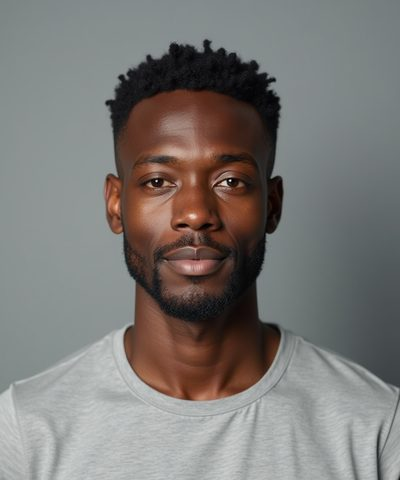
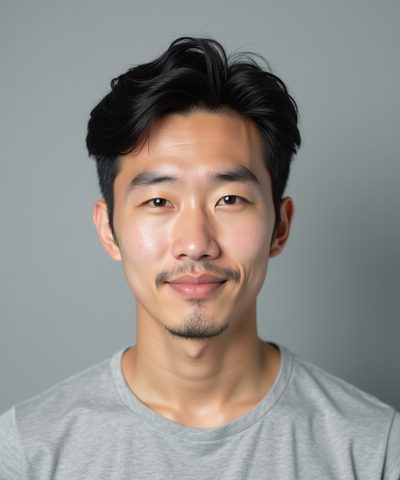
第一印象: 結果を横棒 2 本（ずれ 1 以内の数・r）で判定、写真の顔を全員東アジア系に（顔の組 2）

diff --git a/04-first-impression/index.html b/04-first-impression/index.html
@@ -65,6 +65,7 @@ ol.steps{margin:0;padding-left:1.3em;display:flex;flex-direction:column;gap:4px}
 .scale button{aspect-ratio:1;max-width:100%;border:2px solid var(--line);background:var(--paper);color:var(--ink);border-radius:6px;font-family:var(--f-mono);font-size:18px;cursor:pointer;padding:0}
 .scale button:hover{border-color:var(--accent)}
 .ends{display:flex;justify-content:space-between;font-size:12px;color:var(--sub)}
+.verdict{font-size:18px;margin:2px 0}
 .big{font-family:var(--f-display);font-size:56px;line-height:1;color:var(--accent)}
 .stats{display:grid;grid-template-columns:repeat(auto-fit,minmax(150px,1fr));gap:10px}
 .stat{border-top:2px solid var(--ink);padding-top:6px;display:flex;flex-direction:column;gap:2px}
@@ -155,6 +156,8 @@ function faceSVG(id){
   </svg>`;
 }
 /* 顔は 2 種類：描いた顔（svg）と、AI で作った架空の人の写真（photo。faces/p01.jpg〜p12.jpg） */
+/* 写真の顔の組。2 = 2026/10/25 に 12 人を全員 東アジア系にそろえた組（1 は前の組）。集計は今の組だけ */
+const PHOTO_FS = 2;
 const SETS = { svg: { name: "描いた顔", short: "絵" }, photo: { name: "写真の顔", short: "写真" } };
 const photoSrc = (id) => `faces/p${String(id - 100).padStart(2, "0")}.jpg`;
 function faceHTML(id, set){
@@ -326,6 +329,47 @@ function matchChart(x, y, ids, set){
   return s + `</svg>`;
 }
 
+/* 判定の線（12 人のとき）：ずれ 1 以内が 10 人以上＝かなり一緒、7〜9 人＝だいたい同じ、6 人以下＝けっこう変わった */
+const VERDICT = { hi: "0.1 秒でも 1 秒でも、ほとんど同じ印象でした。", mid: "だいたい同じ。でも、何人かは印象が動きました。", lo: "0.1 秒と 1 秒で、印象が動いた顔が多めです。" };
+const VERDICT_SHORT = { hi: "かなり一緒", mid: "まあまあ一緒", lo: "けっこう違う" };
+const nearVerdict = (near) => near >= 10 ? "hi" : near >= 7 ? "mid" : "lo";
+/* r の区切り：0.7 以上＝かなり一緒、0.4〜0.7＝まあまあ一緒、0.4 未満＝ぜんぜん違う（負の r も「ぜんぜん違う」）。根拠は README */
+const R_SHORT = { hi: "かなり一緒", mid: "まあまあ一緒", lo: "ぜんぜん違う" };
+const rVerdict = (r) => r === null || !Number.isFinite(r) ? null : r >= 0.7 ? "hi" : r >= 0.4 ? "mid" : "lo";
+const ZCOL = { lo: "var(--d2)", mid: "var(--d1)", hi: "var(--d0)" };
+const ZB = {
+  near: { max: 12, zones: [[0, 6.5, "lo"], [6.5, 9.5, "mid"], [9.5, 12, "hi"]], names: VERDICT_SHORT, ticks: [0, 1, 2, 3, 4, 5, 6, 7, 8, 9, 10, 11, 12], fmt: (v) => num(v, Number.isInteger(v) ? 0 : 1), zone: nearVerdict, title: "12 人中 ずれ 1 以内だった顔の数" },
+  r: { max: 1, zones: [[0, 0.4, "lo"], [0.4, 0.7, "mid"], [0.7, 1, "hi"]], names: R_SHORT, ticks: [0, 0.2, 0.4, 0.6, 0.8, 1], fmt: (v) => num(v, 2), zone: rVerdict, mark: 0.73, title: "0.1 秒と 1 秒の一致（相関 r）" },
+};
+/* 横棒：背景に 3 つの区切り（色と名前）、棒は入った区切りの色。rows = [{label, value}]（value が null なら棒なし） */
+function zoneBar(kind, rows){
+  const z = ZB[kind], L = 84, R = 348, W = R - L, X = (v) => L + Math.max(0, Math.min(z.max, v)) / z.max * W;
+  const top = z.mark !== undefined ? 30 : 18, rh = 28, H = top + rows.length * rh + 20;
+  let s = `<svg viewBox="0 0 360 ${H}" xmlns="http://www.w3.org/2000/svg" role="img" aria-label="${z.title}">`;
+  z.zones.forEach(([a, b, k]) => {
+    s += `<rect x="${X(a)}" y="${top - 4}" width="${X(b) - X(a)}" height="${rows.length * rh + 4}" fill="${ZCOL[k]}" fill-opacity=".16"/>`;
+    s += `<text x="${(X(a) + X(b)) / 2}" y="${top - 8}" text-anchor="middle" font-size="10.5" fill="${ZCOL[k]}" font-weight="700">${z.names[k]}</text>`;
+  });
+  z.zones.slice(1).forEach(([a]) => s += `<line x1="${X(a)}" y1="${top - 4}" x2="${X(a)}" y2="${top + rows.length * rh}" stroke="var(--sub)" stroke-width="1" stroke-dasharray="3 3"/>`);
+  rows.forEach((row, i) => {
+    const y = top + i * rh, v = row.value;
+    s += `<text x="${L - 6}" y="${y + 15}" text-anchor="end" font-size="12" fill="var(--ink)">${row.label}</text>`;
+    if (v === null || !Number.isFinite(v)) { s += `<text x="${L + 4}" y="${y + 15}" font-size="12" fill="var(--sub)">—</text>`; return; }
+    const k = z.zone(v), x2 = X(v);
+    s += `<rect x="${L}" y="${y + 4}" width="${Math.max(2, x2 - L)}" height="16" rx="3" fill="${ZCOL[k]}"/>`;
+    const lab = z.fmt(v), inside = x2 > R - 34;
+    s += `<text x="${inside ? x2 - 4 : x2 + 4}" y="${y + 16.5}" text-anchor="${inside ? "end" : "start"}" font-size="12" font-weight="700" fill="${inside ? "#fff" : "var(--ink)"}" font-family="var(--f-mono)">${lab}</text>`;
+  });
+  const by = top + rows.length * rh;
+  s += `<line x1="${L}" y1="${by}" x2="${R}" y2="${by}" stroke="var(--line)"/>`;
+  z.ticks.forEach((t) => s += `<text x="${X(t)}" y="${by + 14}" text-anchor="middle" font-size="10" fill="var(--sub)" font-family="var(--f-mono)">${z.max === 1 ? String(t).replace(/^0(?=\.)/, "") : t}</text>`);
+  if (z.mark !== undefined) {
+    const mx = X(z.mark);
+    s += `<line x1="${mx}" y1="${top - 4}" x2="${mx}" y2="${by}" stroke="var(--ink)" stroke-width="1.5"/>`;
+    s += `<text x="${mx}" y="9" text-anchor="middle" font-size="10" fill="var(--ink)">研究 .73 ▼</text>`;
+  }
+  return s + `</svg>`;
+}
 function pearson(x, y){
   const n = x.length, mx = x.reduce((a, b) => a + b) / n, my = y.reduce((a, b) => a + b) / n;
   let sxy = 0, sxx = 0, syy = 0;
@@ -361,28 +405,30 @@ function faceResult(res, ids, set){
   let maxI = 0; ids.forEach((id, i) => { if (Math.abs(x[i]-y[i]) > Math.abs(x[maxI]-y[maxI])) maxI = i; });
   const myN = nextCount("face_" + set);
   const rTxt = r === null ? "—" : r.toFixed(2);
-  const verdict = r === null ? "答えが全部同じだったので、一致の数字は出せませんでした。" :
-    r >= 0.7 ? "0.1 秒でも 1 秒でも、ほとんど同じ印象でした。" :
-    r >= 0.4 ? "だいたい同じ。でも、何人かは印象が動きました。" :
-    "0.1 秒と 1 秒で、印象がかなり変わりました。";
-  const shareTxt = `0.1秒と1秒の一致（${SETS[set].name}）r=${rTxt}／${N_FACES}人中 同じ答え${same}人（0.1秒の回は実測${Math.round(t1)}ms）#場を温める研究所`;
+  // 判定は「ずれ 1 以内の人数」で決める（r は答えが狭い範囲に集まると下がり、体感と合わないため。線は README）
+  const vk = nearVerdict(near);
+  const verdict = VERDICT[vk];
+  const shareTxt = `0.1秒と1秒（${SETS[set].name}）${N_FACES}人中 同じ答え${same}人・ずれ1以内${near}人「${VERDICT_SHORT[vk]}」（0.1秒の回は実測${Math.round(t1)}ms）#場を温める研究所`;
   const el = $(`<div style="display:contents">
     <section class="sheet">
       <span class="tag">実験 1 の結果・${SETS[set].name}</span>
-      <p class="match">${N_FACES} 人中 <b class="mono">${same}</b> 人 同じ答え</p>
-      <p class="sub">ずれが 1 以内の人まで入れると <b class="mono">${near}</b> 人。輪が 0.1 秒の答え、点が 1 秒の答え（1〜7）。</p>
+      <p class="match"><b>${VERDICT_SHORT[vk]}${vk === "hi" ? "！" : ""}</b></p>
+      <p class="verdict">${verdict}</p>
+      <div class="mchart">${zoneBar("near", [{ label: "あなた", value: near }])}</div>
+      <p class="sub">${N_FACES} 人中 ずれ 1 以内が <b class="mono">${near}</b> 人（ぴったり同じは <b class="mono">${same}</b> 人）。</p>
+      <div class="mchart">${zoneBar("r", [{ label: "あなた", value: r }])}</div>
+      <p class="sub">下の棒は研究と比べる用の数字（相関 r）で、${rVerdict(r) ? `「${R_SHORT[rVerdict(r)]}」のところ` : "答えが全部同じで出せません"}。r は答えが 3〜5 のような狭い範囲に集まると、ほとんど同じでも低めに出ます。</p>
+      <p class="sub">輪が 0.1 秒の答え、点が 1 秒の答え（1〜7）。</p>
       <div class="mchart">${matchChart(x, y, ids, set)}</div>
       <div class="legend"><span><i style="background:var(--d0)"></i>同じ</span><span><i style="background:var(--d1)"></i>ずれ 1</span><span><i style="background:var(--d2)"></i>ずれ 2</span><span><i style="background:var(--d3)"></i>ずれ 3 以上</span></div>
     </section>
     <section class="sheet">
-      <p class="sub">あなたの 0.1 秒の答えと 1 秒の答えの一致（相関。1 に近いほど同じ）</p>
-      <div class="big mono">${rTxt}</div>
-      <p><b>${verdict}</b></p>
       <div class="stats">
         <div class="stat"><b class="mono">${same} / ${N_FACES}</b><span>まったく同じ答え</span></div>
         <div class="stat"><b class="mono">${near} / ${N_FACES}</b><span>ずれが 1 以内</span></div>
         <div class="stat"><b class="mono">${mad.toFixed(1)}</b><span>ずれの平均（7 段階で）</span></div>
       </div>
+      <p class="note">相関 r = <span class="mono">${rTxt}</span>（研究は .73。ただし研究は「別の人たちの判断」とくらべていて、比べ方が違います）。</p>
     </section>
     <section class="sheet">
       <h2>答えの散らばり</h2>
@@ -429,8 +475,8 @@ function faceResult(res, ids, set){
   el.querySelector("#other").onclick = () => faceIntro(set === "photo" ? "svg" : "photo");
   el.querySelector("#again").onclick = () => faceIntro(set);
   crowdBlock(el.querySelector("#crowd"), "face",
-    Object.assign({ kind: "face", v: 1, set, r1: x, r2: y, ms: Math.round(t1), hz: Math.round(hz), jank: res.jank }, myN === null ? {} : { n: myN }),
-    { r, mad, set, n: myN });
+    Object.assign({ kind: "face", v: 1, set, fs: set === "photo" ? PHOTO_FS : undefined, r1: x, r2: y, ms: Math.round(t1), hz: Math.round(hz), jank: res.jank }, myN === null ? {} : { n: myN }),
+    { r, mad, near, same, set, n: myN });
   el.querySelector("#home").onclick = home;
 }
 
@@ -539,8 +585,8 @@ function demoStats(){
     return faces; };
   return { demo: true,
     face: {
-      svg: { n: 137, rBins: [3, 4, 6, 9, 14, 20, 26, 25, 18, 9], rNone: 3, meanAbs: 1.6, faces: mk(2.4) },
-      photo: { n: 121, rBins: [1, 1, 2, 4, 7, 12, 20, 30, 28, 14], rNone: 2, meanAbs: 1.1, faces: mk(0.9) } },
+      svg: { n: 137, rBins: [3, 4, 6, 9, 14, 20, 26, 25, 18, 9], rNone: 3, meanAbs: 1.6, faces: mk(2.4), nearBins: [0, 0, 1, 2, 4, 9, 14, 22, 26, 25, 18, 11, 5], meanSame: 3.9, meanNear: 8.2, meanR: 0.48 },
+      photo: { n: 121, rBins: [1, 1, 2, 4, 7, 12, 20, 30, 28, 14], rNone: 2, meanAbs: 1.1, faces: mk(0.9), nearBins: [0, 0, 0, 0, 1, 2, 5, 10, 17, 24, 28, 21, 13], meanSame: 5.1, meanNear: 9.6, meanR: 0.62 } },
     flip: { A: { n: 71, before: 2.1, after: 5.6, flip: 0.68 }, B: { n: 66, before: 2.2, after: 2.9, flip: 0.09 } },
     later: {
       face: {
@@ -561,11 +607,16 @@ function crowdCompare(fs){
     const ids = Array.from({ length: N_FACES }, (_, i) => 101 + i).filter((id) => f.faces && f.faces[id]);
     const cr = ids.length > 2 ? pearson(ids.map((id) => Number(f.faces[id].m1)), ids.map((id) => Number(f.faces[id].m2))) : null;
     const bm = binMean(f);
-    return `<tr><td>${SETS[k].name} <span class="sub mono">${Number(f.n)} 人</span></td><td class="mono">${bm === null ? "—" : bm.toFixed(2)}</td><td class="mono">${num(f.meanAbs)}</td><td class="mono">${cr === null ? "—" : cr.toFixed(2)}</td></tr>`; };
+    rs.push(`${SETS[k].name} ${bm === null ? "—" : bm.toFixed(2)}／${cr === null ? "—" : cr.toFixed(2)}`);
+    const nv = f.meanNear === undefined ? "" : `<br><span class="sub">${VERDICT_SHORT[nearVerdict(Number(f.meanNear))]}</span>`;
+    return `<tr><td>${SETS[k].name} <span class="sub mono">${Number(f.n)} 人</span></td><td class="mono">${f.meanNear === undefined ? "—" : num(f.meanNear)}${nv}</td><td class="mono">${f.meanSame === undefined ? "—" : num(f.meanSame)}</td><td class="mono">${num(f.meanAbs)}</td></tr>`; };
+  const rs = [];
+  const body = row("svg") + row("photo");
   return `<h2>描いた顔と写真の顔、くらべると</h2>
-    <table class="cmp"><thead><tr><th></th><th>1 人ずつの一致（平均）</th><th>ずれの平均</th><th>みんなの平均どうしの一致</th></tr></thead>
-    <tbody>${row("svg")}${row("photo")}</tbody></table>
-    <p class="sub">一致は 1 に近いほど「0.1 秒でも 1 秒でも同じ印象」。描いた顔は手がかりが少なく、時間をかけると口の形など 1 か所で決めやすい、という見立てを確かめています。</p>`;
+    <table class="cmp"><thead><tr><th></th><th>ずれ 1 以内<br><span class="sub">12 人中・平均</span></th><th>ぴったり同じ<br><span class="sub">平均</span></th><th>ずれの平均</th></tr></thead>
+    <tbody>${body}</tbody></table>
+    <p class="sub">ずれ 1 以内が多いほど「0.1 秒でも 1 秒でも同じ印象」（10 人以上＝かなり一緒、7〜9 人＝まあまあ一緒、6 人以下＝けっこう違う）。描いた顔は手がかりが少なく、時間をかけると口の形など 1 か所で決めやすい、という見立てを確かめています。</p>
+    <p class="note">研究と比べる用の数字（相関 r。研究は .73、ただし比べ方が違います）：1 人ずつの r の平均／みんなの平均どうしの r … ${rs.join("、")}。r は答えが狭い範囲に集まると、ほとんど同じでも低めに出ます。</p>`;
 }
 const num = (v, d = 1) => Number.isFinite(Number(v)) ? Number(v).toFixed(d) : "—";
 function crowdFace(f, mine, set){
@@ -579,6 +630,20 @@ function crowdFace(f, mine, set){
   hist += `<line x1="18" y1="130" x2="351" y2="130" stroke="var(--line)"/>`;
   [[-1, 20], [0, 185], [1, 350]].forEach(([v, x]) => hist += `<text x="${x}" y="148" text-anchor="middle" font-size="12" fill="var(--sub)" font-family="var(--f-mono)">${v}</text>`);
   hist += `<text x="185" y="166" text-anchor="middle" font-size="12" fill="var(--ink)">0.1 秒と 1 秒の一致（r）→ 右ほど同じ</text></svg>`;
+  // ずれ 1 以内の顔の数（0〜12）ごとの人数。Code.gs が古いと nearBins がない
+  let nh = "";
+  if (Array.isArray(f.nearBins)) {
+    const nb = f.nearBins.map(Number), nmax = Math.max(1, ...nb), myNear = mine && Number.isInteger(mine.near) ? mine.near : -1;
+    nh = `<svg viewBox="0 0 360 170" xmlns="http://www.w3.org/2000/svg" role="img" aria-label="ずれ 1 以内の人数の分かれ方">`;
+    nb.forEach((c, i) => { const h = c / nmax * 110, x = 20 + i * 25.5;
+      const col = i >= 10 ? "var(--d0)" : i >= 7 ? "var(--d1)" : "var(--d2)";
+      nh += `<rect x="${x}" y="${130 - Math.max(h, i === myNear ? 2 : 0)}" width="22" height="${Math.max(h, i === myNear ? 2 : 0)}" rx="2" fill="${col}"${i === myNear ? ` stroke="var(--ink)" stroke-width="2.5"` : ""}/>`;
+      if (i === myNear) nh += `<text x="${x + 11}" y="${(c ? 110 : 124) - h}" text-anchor="middle" font-size="11" fill="var(--ink)">あなた</text>`;
+      if (c) nh += `<text x="${x + 11}" y="${124 - h}" text-anchor="middle" font-size="11" fill="var(--sub)" font-family="var(--f-mono)">${c}</text>`;
+      if (i % 2 === 0) nh += `<text x="${x + 11}" y="148" text-anchor="middle" font-size="12" fill="var(--sub)" font-family="var(--f-mono)">${i}</text>`; });
+    nh += `<line x1="18" y1="130" x2="351" y2="130" stroke="var(--line)"/>`;
+    nh += `<text x="185" y="166" text-anchor="middle" font-size="12" fill="var(--ink)">12 人中 ずれ 1 以内だった顔の数 → 右ほど同じ</text></svg>`;
+  }
   // みんなの平均：顔ごとに 0.1 秒の平均（横）と 1 秒の平均（縦）
   const ids = Array.from({ length: N_FACES }, (_, i) => 101 + i).filter((id) => f.faces && f.faces[id]);
   const m1 = ids.map((id) => Number(f.faces[id].m1)), m2 = ids.map((id) => Number(f.faces[id].m2));
@@ -590,10 +655,20 @@ function crowdFace(f, mine, set){
   sc += `<line x1="${X(1)}" y1="${Y(1)}" x2="${X(7)}" y2="${Y(7)}" stroke="var(--sub)" stroke-dasharray="4 4"/>`;
   ids.forEach((id, i) => { sc += faceInSVG(id, set, X(m1[i]) - 15, Y(m2[i]) - 18, 30, 36); });
   sc += `<text x="190" y="348" text-anchor="middle" font-size="12" fill="var(--ink)">0.1 秒のみんなの平均 →</text></svg>`;
+  const meanR = Number.isFinite(Number(f.meanR)) ? Number(f.meanR) : binMean(f);
+  const mrow = (v) => mine ? [{ label: "あなた", value: v }] : [];
+  const zb = f.meanNear === undefined ? "" : `<div class="mchart">${zoneBar("near", mrow(mine && mine.near).concat([{ label: "みんなの平均", value: Number(f.meanNear) }]))}</div>
+    <div class="mchart">${zoneBar("r", mrow(mine && mine.r).concat([{ label: "みんなの平均", value: meanR }]))}</div>
+    <p class="sub">上：12 人中 ずれ 1 以内の顔の数。下：研究と比べる用の相関 r（1 人ずつの r の平均）。みんなの平均は各実験の 1 回目の人だけ。</p>`;
   return `<p><b>${SETS[set].name}</b>：<b class="mono">${Number(f.n)}</b> 人が結果を加えました。</p>
-    <p class="sub">一致（r）の分かれ方。${my >= 0 ? "オレンジの棒が、あなたのいるところ。" : ""}</p>
+    ${zb}
+    ${nh ? `<p class="sub">みんなの平均：12 人中 ずれ 1 以内 <b class="mono">${num(f.meanNear)}</b> 人・ぴったり同じ <b class="mono">${num(f.meanSame)}</b> 人 → <b>${VERDICT_SHORT[nearVerdict(Number(f.meanNear))]}</b></p>
+    <p class="sub">ずれ 1 以内だった顔の数の分かれ方（緑＝かなり一緒、黄＝まあまあ一緒、橙＝けっこう違う）。${mine && Number.isInteger(mine.near) ? "黒い枠の棒が、あなたのいるところ。" : ""}</p>
+    <div class="chart">${nh}</div>` : ""}
+    ${nh ? `<details><summary>研究と比べる用：相関 r の分かれ方</summary>` : `<p class="sub">一致（r）の分かれ方。${my >= 0 ? "オレンジの棒が、あなたのいるところ。" : ""}</p>`}
     <div class="chart">${hist}</div>
     ${f.rNone ? `<p class="sub">ほかに ${Number(f.rNone)} 人は、答えが全部同じで r を出せませんでした。</p>` : ""}
+    ${nh ? `<p class="note">研究は .73（ただし比べ方が違います）。r は答えが狭い範囲に集まると、ほとんど同じでも低めに出ます。</p></details>` : ""}
     <div class="stats">
       <div class="stat"><b class="mono">${num(f.meanAbs)}</b><span>みんなの ずれの平均</span></div>
       ${mine ? `<div class="stat"><b class="mono">${num(mine.mad)}</b><span>あなたの ずれの平均</span></div>` : ""}
